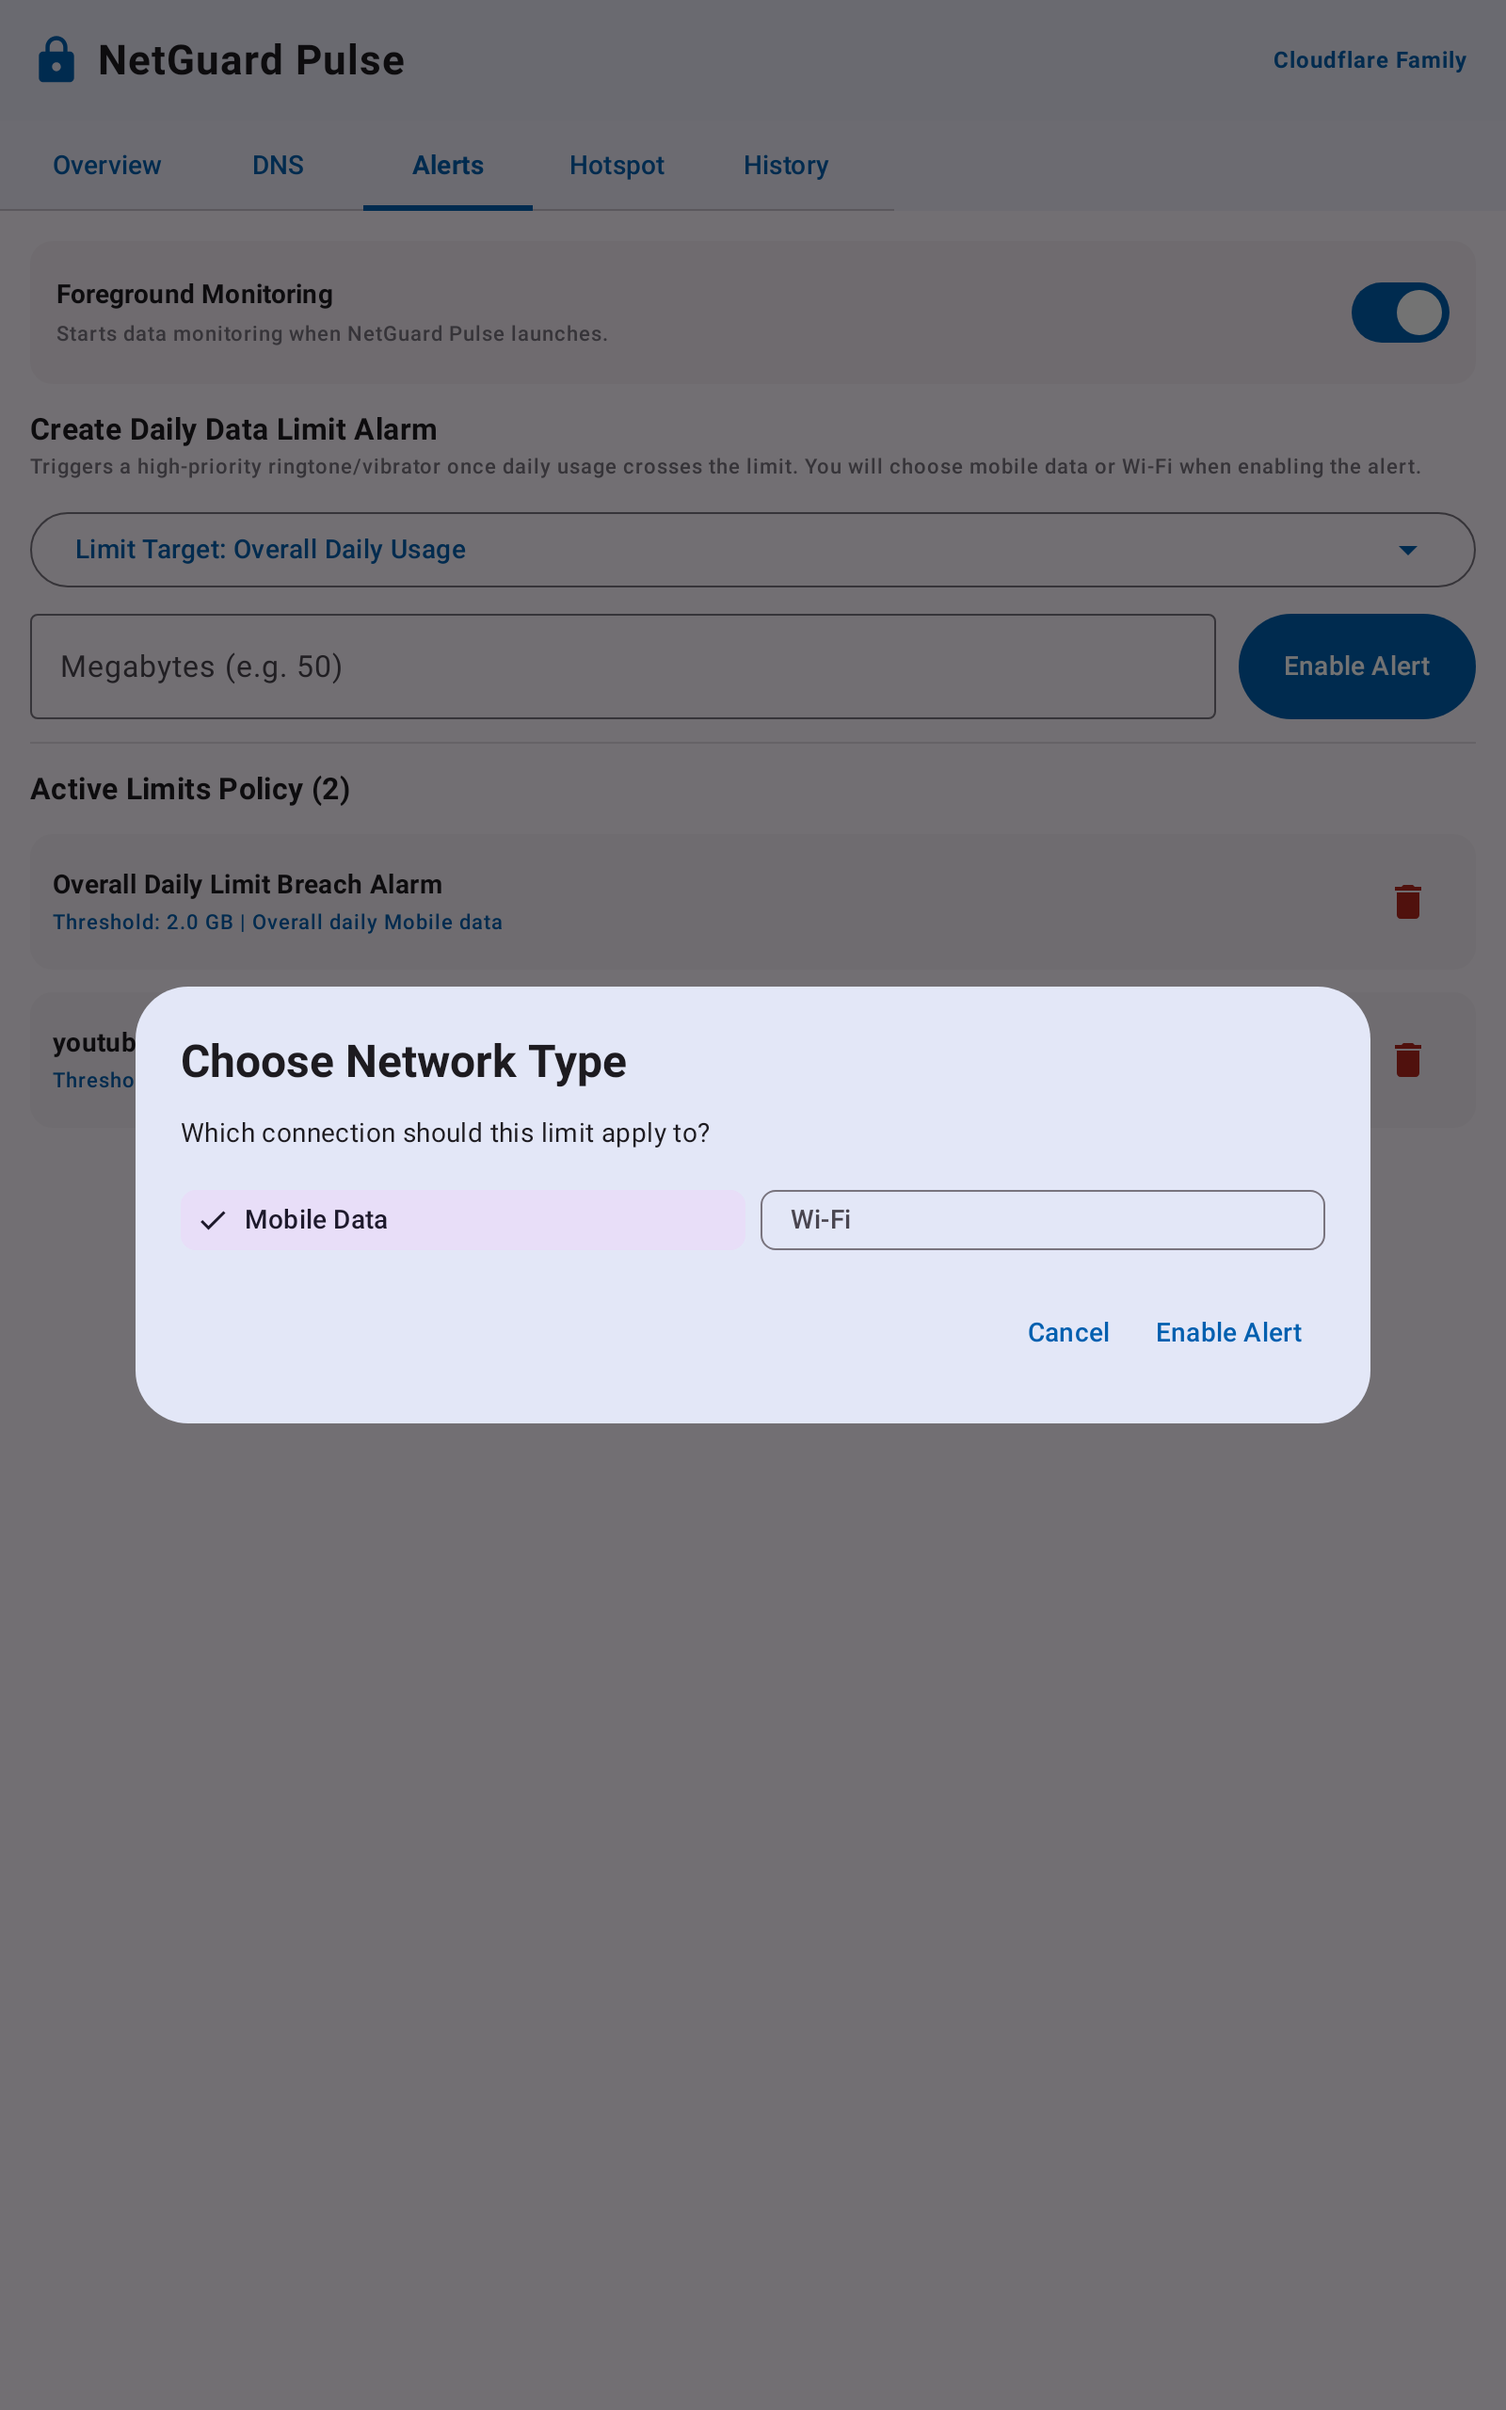
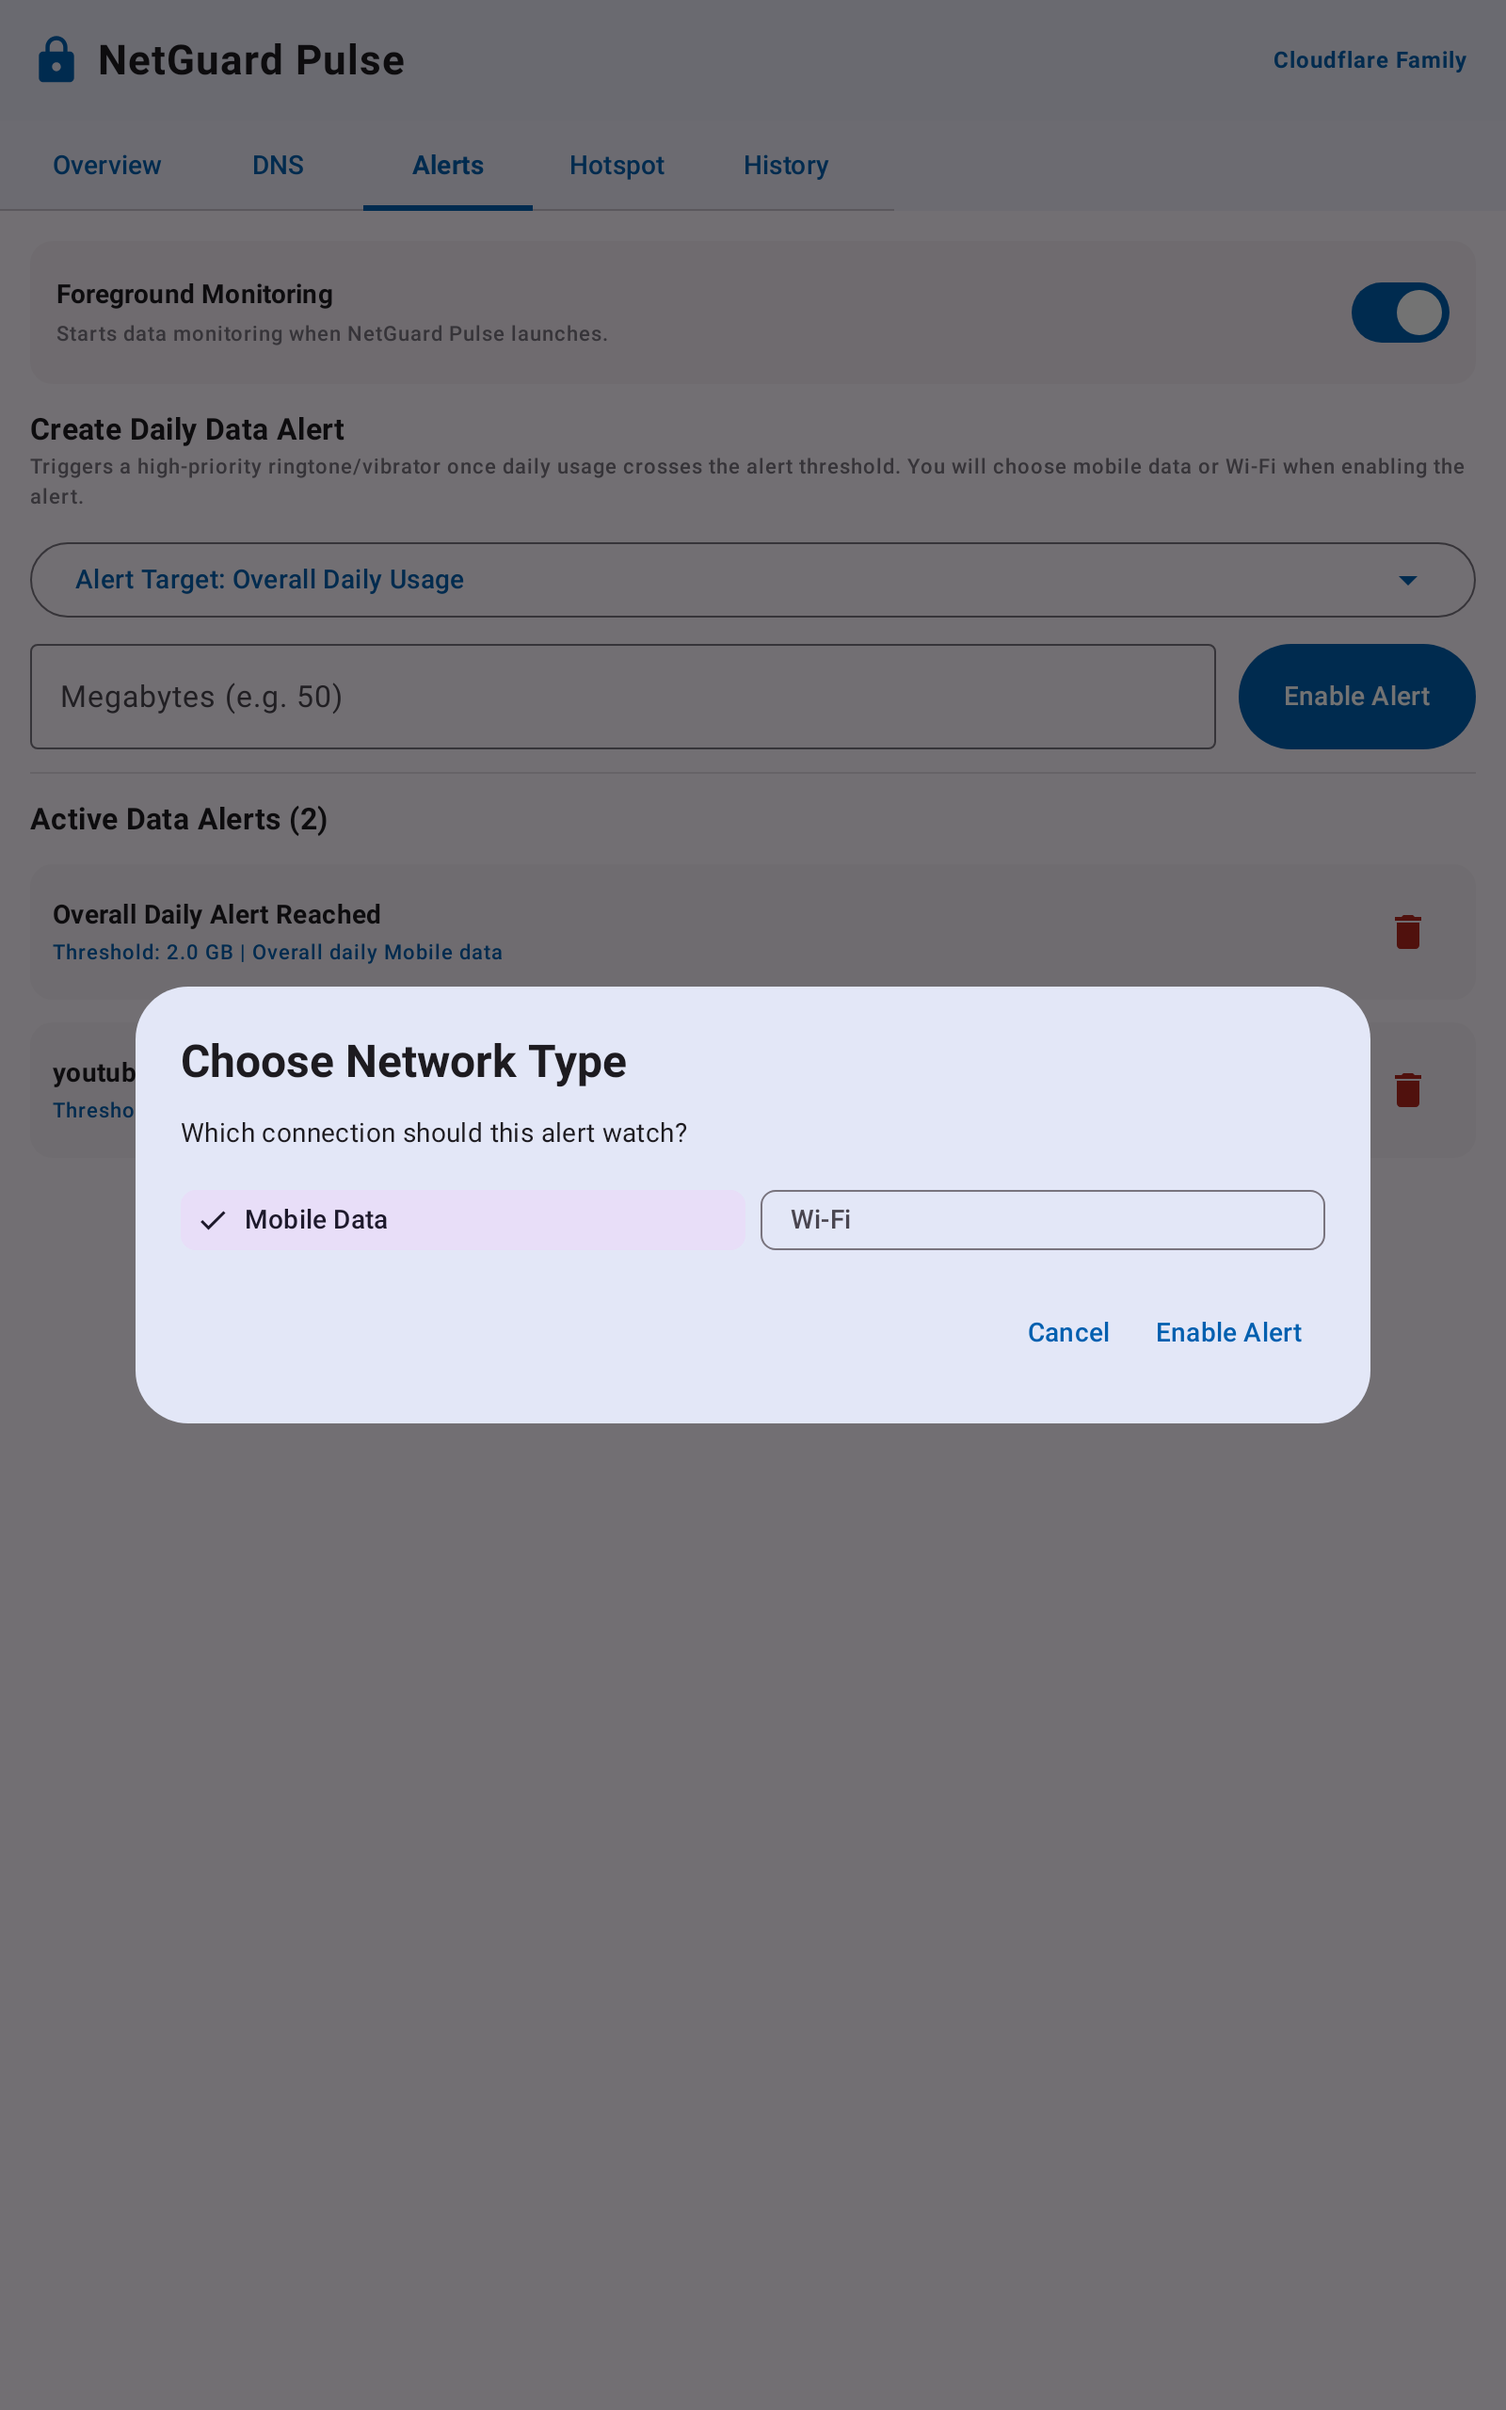
Update build.gradle.kts,DashboardScreen.kt HotspotLimitGuardService.kt.

diff --git a/app/src/main/java/com/michael/netguardplus/presentation/dashboard/DashboardScreen.kt b/app/src/main/java/com/michael/netguardplus/presentation/dashboard/DashboardScreen.kt
@@ -914,7 +914,7 @@ fun AlertsTabContent(
             text = {
                 Column(verticalArrangement = Arrangement.spacedBy(8.dp)) {
                     Text(
-                        text = "Which connection should this limit apply to?",
+                        text = "Which connection should this alert watch?",
                         style = MaterialTheme.typography.bodyMedium
                     )
                     Row(
@@ -1033,11 +1033,11 @@ fun AlertsTabContent(
 
         item {
             Text(
-                text = "Create Daily Data Limit Alarm",
+                text = "Create Daily Data Alert",
                 style = MaterialTheme.typography.titleMedium.copy(fontWeight = FontWeight.Bold)
             )
             Text(
-                text = "Triggers a high-priority ringtone/vibrator once daily usage crosses the limit. You will choose mobile data or Wi-Fi when enabling the alert.",
+                text = "Triggers a high-priority ringtone/vibrator once daily usage crosses the alert threshold. You will choose mobile data or Wi-Fi when enabling the alert.",
                 style = MaterialTheme.typography.labelSmall,
                 color = MaterialTheme.colorScheme.outline
             )
@@ -1055,7 +1055,7 @@ fun AlertsTabContent(
                         verticalAlignment = Alignment.CenterVertically
                     ) {
                         Text(
-                            text = "Limit Target: $selectedOptionText",
+                            text = "Alert Target: $selectedOptionText",
                             style = MaterialTheme.typography.bodyMedium.copy(fontWeight = FontWeight.Medium)
                         )
                         Icon(
@@ -1121,7 +1121,7 @@ fun AlertsTabContent(
 
         item {
             Text(
-                text = "Active Limits Policy (${state.dataAlerts.size})",
+                text = "Active Data Alerts (${state.dataAlerts.size})",
                 style = MaterialTheme.typography.titleMedium.copy(fontWeight = FontWeight.Bold)
             )
         }
@@ -1153,7 +1153,7 @@ fun AlertsTabContent(
                         Column {
                             val context = LocalContext.current
                             val alertTargetName = if (alert.uid == -1) {
-                                "Overall Daily Limit"
+                                "Overall Daily Alert"
                             } else {
                                 val pkgName = alert.packageName
                                 if (pkgName != null) {
@@ -1168,7 +1168,7 @@ fun AlertsTabContent(
                                 }
                             }
                             Text(
-                                text = "$alertTargetName Breach Alarm",
+                                text = "$alertTargetName Reached",
                                 style = MaterialTheme.typography.bodyMedium.copy(fontWeight = FontWeight.Bold)
                             )
                             Spacer(modifier = Modifier.height(2.dp))
@@ -1673,6 +1673,7 @@ fun HotspotTabContent(
                 config = state.hotspotSessionConfig,
                 status = state.hotspotSessionStatus,
                 isHotspotEnabled = state.isHotspotEnabled,
+                animationsEnabled = animationsEnabled,
                 onSave = { config ->
                     onIntent(DashboardIntent.UpdateHotspotSessionConfig(config))
                 }
@@ -1953,6 +1954,7 @@ private fun HotspotSessionAutoOffCard(
     config: HotspotSessionConfig,
     status: HotspotSessionStatus,
     isHotspotEnabled: Boolean,
+    animationsEnabled: Boolean = true,
     onSave: (HotspotSessionConfig) -> Unit
 ) {
     var sessionAlertsEnabled by remember(config) { mutableStateOf(config.autoOffEnabled) }
@@ -1973,7 +1975,8 @@ private fun HotspotSessionAutoOffCard(
         mutableStateOf(System.currentTimeMillis())
     }
 
-    LaunchedEffect(status.sessionStartMs, status.isHotspotActive) {
+    LaunchedEffect(status.sessionStartMs, status.isHotspotActive, animationsEnabled) {
+        if (!animationsEnabled) return@LaunchedEffect
         while (status.isHotspotActive && status.sessionStartMs > 0L) {
             nowMs = System.currentTimeMillis()
             delay(1_000L)

diff --git a/app/src/main/java/com/michael/netguardplus/system/hotspot/HotspotLimitGuardService.kt b/app/src/main/java/com/michael/netguardplus/system/hotspot/HotspotLimitGuardService.kt
@@ -11,6 +11,7 @@ import android.os.IBinder
 import android.util.Log
 import androidx.core.app.NotificationCompat
 import com.michael.netguardplus.MainActivity
+import com.michael.netguardplus.NetGuardApplication
 import com.michael.netguardplus.R
 
 /**
@@ -23,27 +24,52 @@ import com.michael.netguardplus.R
  */
 class HotspotLimitGuardService : Service() {
 
+    private var stopRequested = false
+
     override fun onBind(intent: Intent?): IBinder? = null
 
     override fun onCreate() {
         super.onCreate()
         createChannel()
         startForeground(NOTIF_ID, buildNotification())
+        ensureHotspotMonitoring()
         Log.i(TAG, "Hotspot alert guard service started")
     }
 
     override fun onStartCommand(intent: Intent?, flags: Int, startId: Int): Int {
         if (intent?.action == ACTION_STOP) {
+            stopRequested = true
             Log.i(TAG, "Stop requested — stopping guard service")
             stopSelf()
             return START_NOT_STICKY
         }
+        stopRequested = false
+        ensureHotspotMonitoring()
         return START_STICKY
     }
 
+    override fun onTaskRemoved(rootIntent: Intent?) {
+        super.onTaskRemoved(rootIntent)
+        if (!stopRequested) {
+            ensureHotspotMonitoring()
+            start(applicationContext)
+        }
+    }
+
     override fun onDestroy() {
+        if (!stopRequested) {
+            start(applicationContext)
+        }
         super.onDestroy()
         Log.i(TAG, "Hotspot alert guard service destroyed")
+    }
+
+    private fun ensureHotspotMonitoring() {
+        try {
+            (application as? NetGuardApplication)?.container?.hotspotRepository?.startMonitoring()
+        } catch (e: Exception) {
+            Log.e(TAG, "Failed to start hotspot alert monitor", e)
+        }
     }
 
     // ── notification ────────────────────────────────────────────────────────

diff --git a/app/src/test/java/com/michael/netguardplus/playstore/PlayStoreAlertNetworkDialog.kt b/app/src/test/java/com/michael/netguardplus/playstore/PlayStoreAlertNetworkDialog.kt
@@ -50,7 +50,7 @@ fun PlayStoreAlertNetworkDialog() {
           style = MaterialTheme.typography.headlineSmall.copy(fontWeight = FontWeight.Bold),
         )
         Text(
-          text = "Which connection should this limit apply to?",
+          text = "Which connection should this alert watch?",
           style = MaterialTheme.typography.bodyMedium,
         )
         Row(
